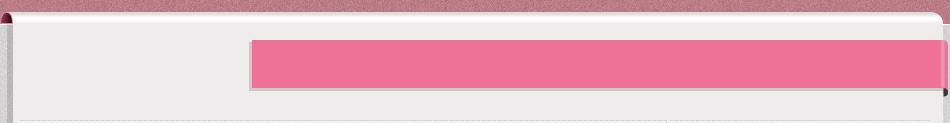
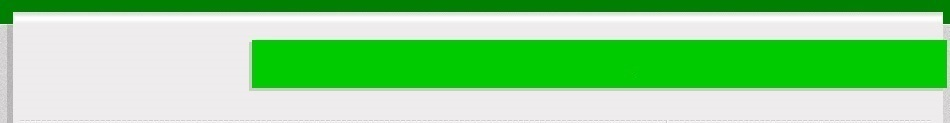
changed most of the background images to green

diff --git a/css/style.css b/css/style.css
@@ -2,7 +2,7 @@
 
 body {
 	background: url(../images/bg-body.gif) repeat center top;
-	color: #807e7f;
+	color: #504e4f;/*807e7f 504e4f*/
 	font-family: 'SortsMillGoudyRegular';
 	font-size: 14px;
 	margin: 0;
@@ -19,7 +19,7 @@ img {
 }
 
 p a {
-	color: #807e7f;
+	color: #504e4f; /*807e7f*/
 }
 
 #page {
@@ -60,18 +60,18 @@ p a {
 }
 
 #header ul li a {
-	color: #831a3b;
+	color: #105012; /*831a3b*/
 	display: block;
 	line-height: 51px;
 	text-decoration: none;
 	text-transform: uppercase;
-	text-shadow: 0 1px #ff97b8;
+	text-shadow: 0 1px #77df68; /*ff97b8*/
 }
 
 #header ul li.current a,
 #header ul li a:hover {
-	color: #fff5f5;
-	text-shadow: 0 1px #d5426f;
+	color: #f5fff5;/*f5fff5*/
+	text-shadow: 0 1px #00a100; /*d5426f*/ /*7aff7a*/
 }
 
 #body {
@@ -390,8 +390,8 @@ p a {
 }
 
 #body div#sidebar div div h3 {
-	background: #ee7199 url(../images/bg-sidebar-heading.gif) no-repeat right top;
-	color: #fffafc;
+	background: #008002 url(../images/bg-sidebar-heading.gif) no-repeat right top;/*ee7199*/
+	color: #fffafc; /*fffafc*/
 	font-size: 18px;
 	font-weight: normal;
 	height: 28px;
